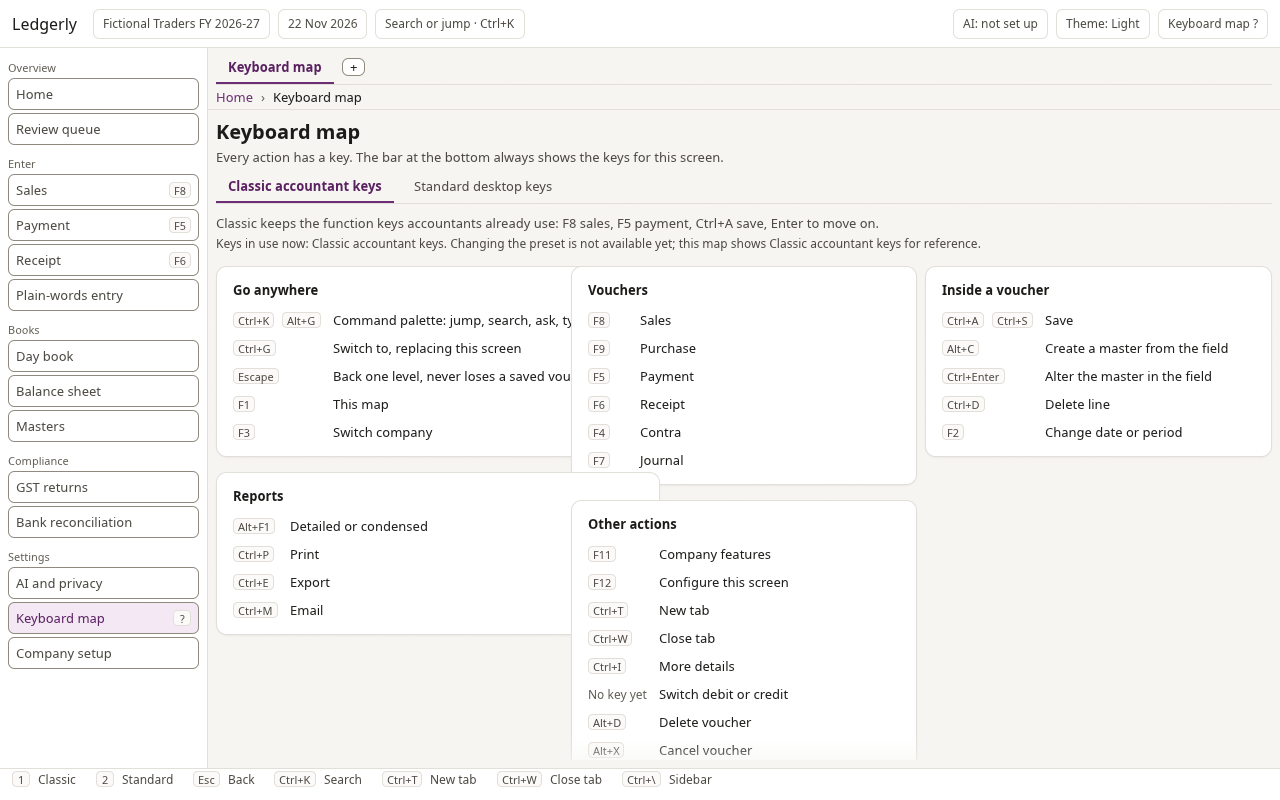
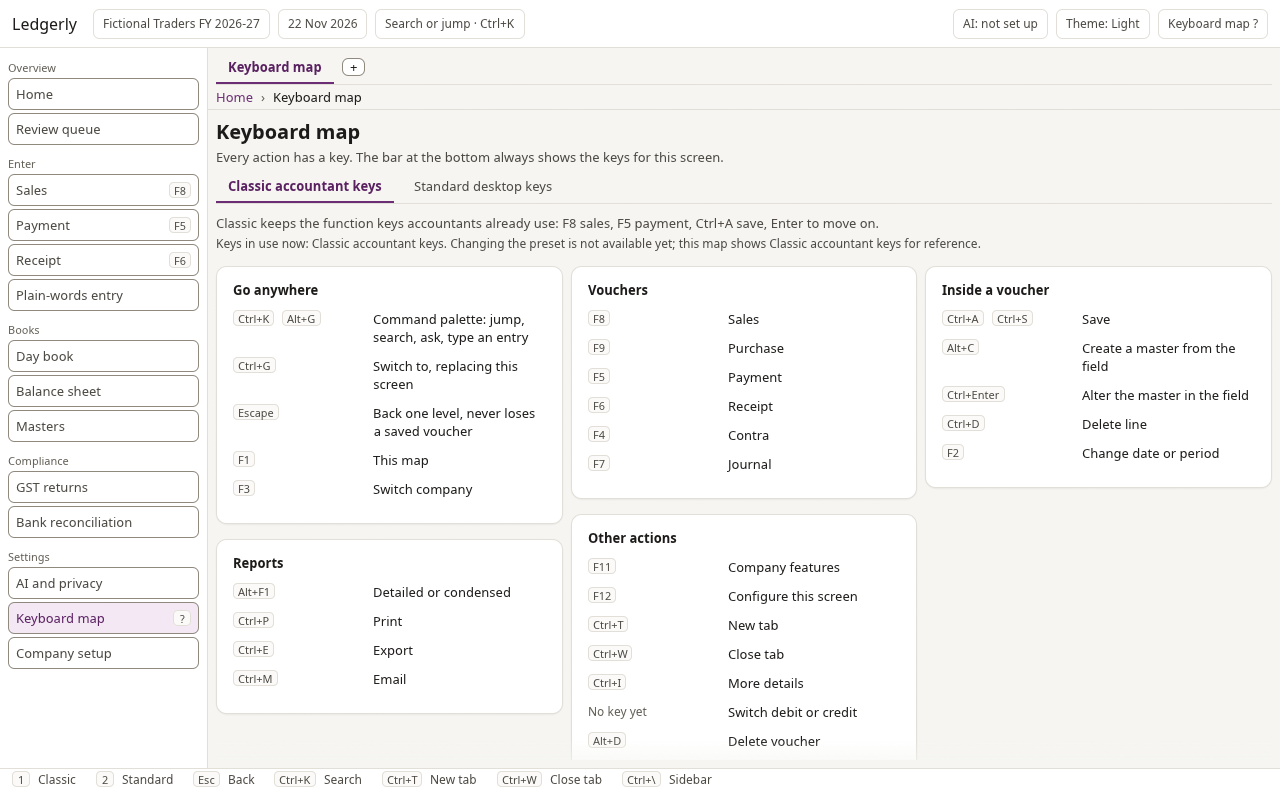
Keyboard map: cards fill their column and labels wrap
A Grid with no width limit let a long label widen the first card past
its column, so the Reports card overlapped the Vouchers column. The
w2_keys_layout tests (written first, failed with the overlap) check that
no two cards intersect and none runs past the content at 1024 and 768.

diff --git a/crates/ledgerly-app/src/screens/keymap_map.rs b/crates/ledgerly-app/src/screens/keymap_map.rs
@@ -157,25 +157,49 @@ fn chord_keys(ui: &mut Ui, keymap: &Keymap, action: Action) {
     }
 }
 
-/// Draws one card: its heading, then a row per action with its keys and words.
+/// Width of the keys column inside a card, in points: room for two keycaps such as
+/// `Ctrl+Shift+S` and `F8` side by side. Wider chords wrap onto a second line.
+const KEYS_WIDTH: f32 = 120.0;
+
+/// Draws one card: its heading, then a row per action with its keys and words. The card fills its
+/// column and the words wrap, so a long label never widens the card past the column.
 fn group_ui(ui: &mut Ui, group: &KeyGroup, keymap: &Keymap, t: &Tokens) {
+    ui.set_width(ui.available_width());
     let heading = bold_font(ui, TEXT_BODY);
     ui.label(RichText::new(group.title).font(heading).color(t.text));
     ui.add_space(SPACE_2);
-    egui::Grid::new(group.title)
-        .spacing([SPACE_3, SPACE_2])
-        .show(ui, |ui| {
-            for row in &group.rows {
-                ui.horizontal(|ui| chord_keys(ui, keymap, row.action));
-                ui.label(RichText::new(row.label).size(TEXT_BODY).color(t.text));
-                ui.end_row();
-            }
+    for row in &group.rows {
+        ui.horizontal_top(|ui| {
+            ui.allocate_ui_with_layout(
+                egui::vec2(KEYS_WIDTH, 0.0),
+                egui::Layout::left_to_right(egui::Align::Min).with_main_wrap(true),
+                |ui| {
+                    ui.set_width(KEYS_WIDTH);
+                    chord_keys(ui, keymap, row.action);
+                },
+            );
+            ui.add_space(SPACE_3);
+            ui.add(egui::Label::new(RichText::new(row.label).size(TEXT_BODY).color(t.text)).wrap());
         });
+        ui.add_space(SPACE_2);
+    }
 }
 
 /// The Keyboard map screen (mock `keys`). It shows the keys in use, and a preset for reference.
 #[derive(Debug, Default)]
-pub struct KeymapScreen;
+pub struct KeymapScreen {
+    /// The card rectangles of the last frame, in drawing order.
+    cards: Vec<egui::Rect>,
+}
+
+impl KeymapScreen {
+    /// The card rectangles of the last frame, in the order of [`layout`]. Empty before the first
+    /// frame.
+    #[must_use]
+    pub fn card_rects(&self) -> &[egui::Rect] {
+        &self.cards
+    }
+}
 
 impl Screen for KeymapScreen {
     fn title(&self) -> String {
@@ -256,14 +280,19 @@ impl Screen for KeymapScreen {
         egui::ScrollArea::vertical()
             .auto_shrink([false, false])
             .show(ui, |ui| {
+                let mut rects = vec![egui::Rect::NOTHING; groups.len()];
                 ui.columns(3, |cols| {
                     for (i, group) in groups.iter().enumerate() {
                         if let Some(col) = cols.get_mut(i % 3) {
-                            card(col, |ui| group_ui(ui, group, &shown, &t));
+                            let drawn = card(col, |ui| group_ui(ui, group, &shown, &t));
+                            if let Some(slot) = rects.get_mut(i) {
+                                *slot = drawn.response.rect;
+                            }
                             col.add_space(SPACE_3);
                         }
                     }
                 });
+                self.cards = rects;
             });
         ScreenAction::Stay
     }

diff --git a/crates/ledgerly-app/tests/w2_keys_layout.rs b/crates/ledgerly-app/tests/w2_keys_layout.rs
@@ -1,0 +1,85 @@
+//! Wave 2 item S-J: the keyboard map's cards sit side by side in three columns, as the mock's
+//! `keys.classic` and `keys.standard` states show them (`design/mock-v2/captures/states/light/
+//! keys.classic.webp`): no card overlaps another and none runs past the content.
+//!
+//! Provenance: derived. The content widths are the home tests' (`w2_home.rs`): 1024 points in a
+//! 1280 px window and 768 in a 1024 px one (window less the 208-point sidebar and 2 x 24 margins).
+#![allow(
+    clippy::unwrap_used,
+    clippy::float_arithmetic,
+    reason = "test code: rule B2 lets tests unwrap; layout checks add points"
+)]
+
+use egui::{Event, Key, Modifiers, Pos2, RawInput, Rect, Vec2};
+use ledgerly_app::screens::keymap_map::KeymapScreen;
+use ledgerly_app::{AppCtx, Screen};
+
+const WINDOW_HEIGHT: f32 = 2000.0;
+
+/// Draws the map three frames in a window `content_width` points wide (pressing `view` first:
+/// `Num1` classic, `Num2` standard) and returns the card rectangles of the last frame.
+fn drawn_cards(content_width: f32, view: Key) -> Vec<Rect> {
+    let ctx = egui::Context::default();
+    let mut screen = KeymapScreen::default();
+    let mut app = AppCtx::default();
+    for frame in 0..3 {
+        let events = if frame == 0 {
+            vec![Event::Key {
+                key: view,
+                physical_key: None,
+                pressed: true,
+                repeat: false,
+                modifiers: Modifiers::NONE,
+            }]
+        } else {
+            Vec::new()
+        };
+        let input = RawInput {
+            screen_rect: Some(Rect::from_min_size(
+                Pos2::ZERO,
+                Vec2::new(content_width, WINDOW_HEIGHT),
+            )),
+            events,
+            ..RawInput::default()
+        };
+        let out = ctx.run_ui(input, |ui| {
+            ui.set_max_width(content_width);
+            let _action = screen.ui(ui, &mut app);
+        });
+        out.drop_without_applying_deltas();
+    }
+    screen.card_rects().to_vec()
+}
+
+fn assert_cards_apart(content_width: f32, view: Key) {
+    let cards = drawn_cards(content_width, view);
+    // derived: five groups (four from the mock, then "Other actions"), one card each.
+    assert_eq!(cards.len(), 5, "{cards:?}");
+    for (i, a) in cards.iter().enumerate() {
+        assert!(
+            a.right() <= content_width + 0.5,
+            "card {i} runs past the content ({content_width}): {a:?}"
+        );
+        for (j, b) in cards.iter().enumerate().skip(i + 1) {
+            assert!(
+                !a.shrink(0.5).intersects(b.shrink(0.5)),
+                "cards {i} and {j} overlap at width {content_width}: {a:?} {b:?}"
+            );
+        }
+    }
+}
+
+#[test]
+fn classic_cards_do_not_overlap_at_1280() {
+    assert_cards_apart(1024.0, Key::Num1);
+}
+
+#[test]
+fn standard_cards_do_not_overlap_at_1280() {
+    assert_cards_apart(1024.0, Key::Num2);
+}
+
+#[test]
+fn standard_cards_do_not_overlap_at_1024() {
+    assert_cards_apart(768.0, Key::Num2);
+}

diff --git a/crates/ledgerly-app/src/shell/navigate.rs b/crates/ledgerly-app/src/shell/navigate.rs
@@ -579,7 +579,7 @@ fn screen_for_key(key: &str, ctx: &AppCtx) -> Option<Result<Box<dyn Screen>, Nav
         ASK_KEY => Ok(Box::new(AskScreen)),
         QUICK_ENTRY_KEY => Ok(Box::new(QuickEntryScreen)),
         PURCHASE_BILL_KEY => Ok(Box::new(PurchaseBillScreen)),
-        KEYS_KEY => Ok(Box::new(KeymapScreen)),
+        KEYS_KEY => Ok(Box::new(KeymapScreen::default())),
         AI_SETTINGS_KEY => Ok(Box::new(AiSettingsScreen)),
         SETUP_KEY => Ok(Box::new(SetupScreen)),
         other => {

diff --git a/design/COMPARE.md b/design/COMPARE.md
@@ -16,8 +16,8 @@
 | light | sales-invoice.default | 0.5438 |
 | light | palette.default | 0.5505 |
 | light | gst.gstr3b | 0.5879 |
-| light | keys.standard | 0.5902 |
-| light | keys.classic | 0.5976 |
+| light | keys.standard | 0.5899 |
+| light | keys.classic | 0.5915 |
 | light | masters.ledgers | 0.6005 |
 | light | gst.gstr1 | 0.6027 |
 | light | bank.default | 0.6271 |
@@ -177,7 +177,7 @@ SSIM 0.5879
 
 ## light / keys.standard
 
-SSIM 0.5902
+SSIM 0.5899
 
 <table>
 <tr><th>Mock</th><th>App</th></tr>
@@ -189,7 +189,7 @@ SSIM 0.5902
 
 ## light / keys.classic
 
-SSIM 0.5976
+SSIM 0.5915
 
 <table>
 <tr><th>Mock</th><th>App</th></tr>
